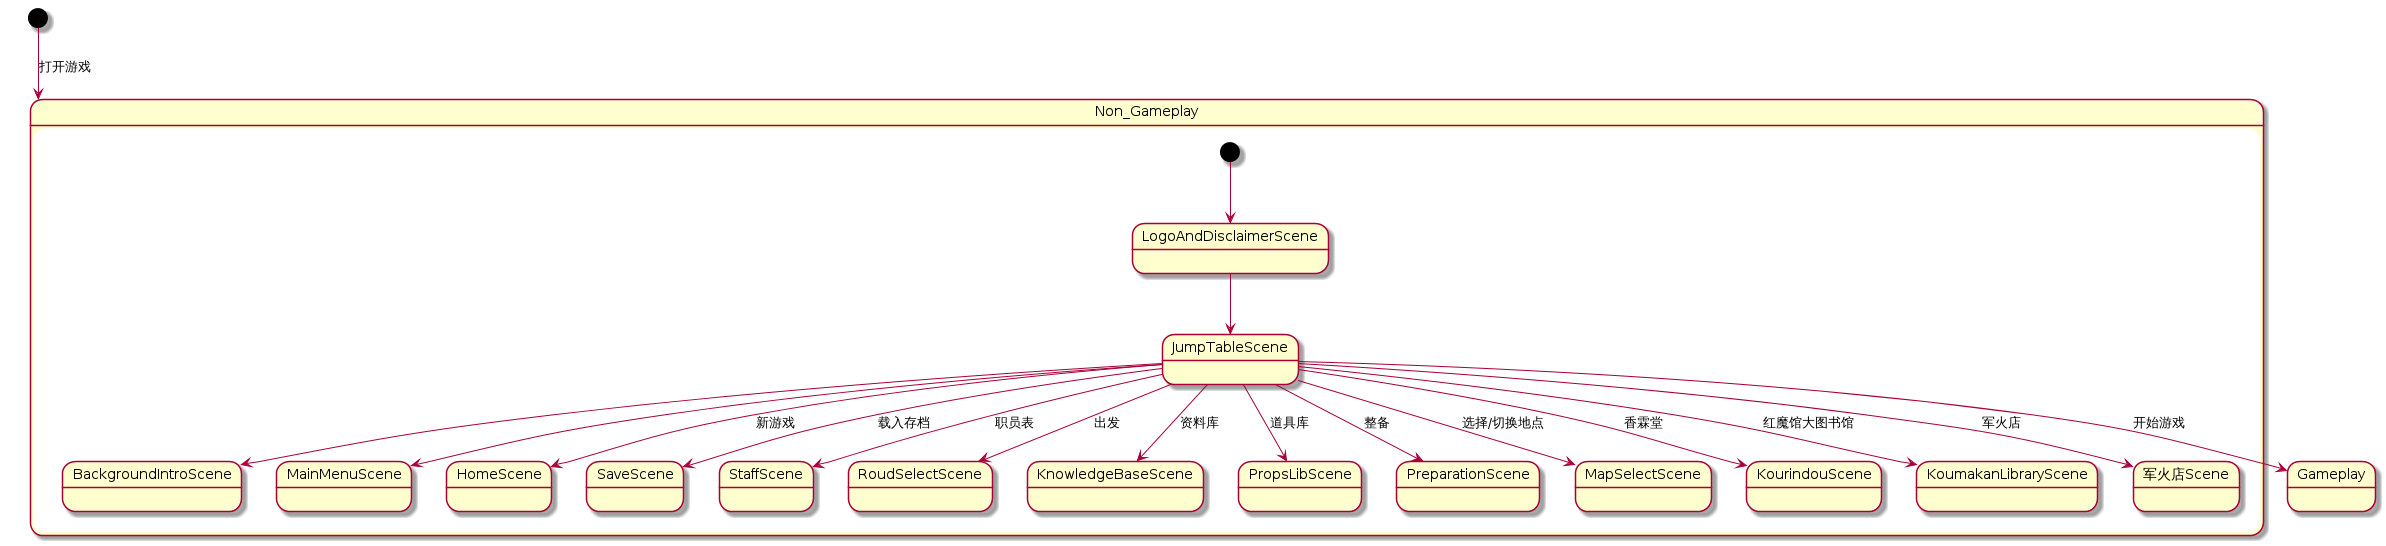
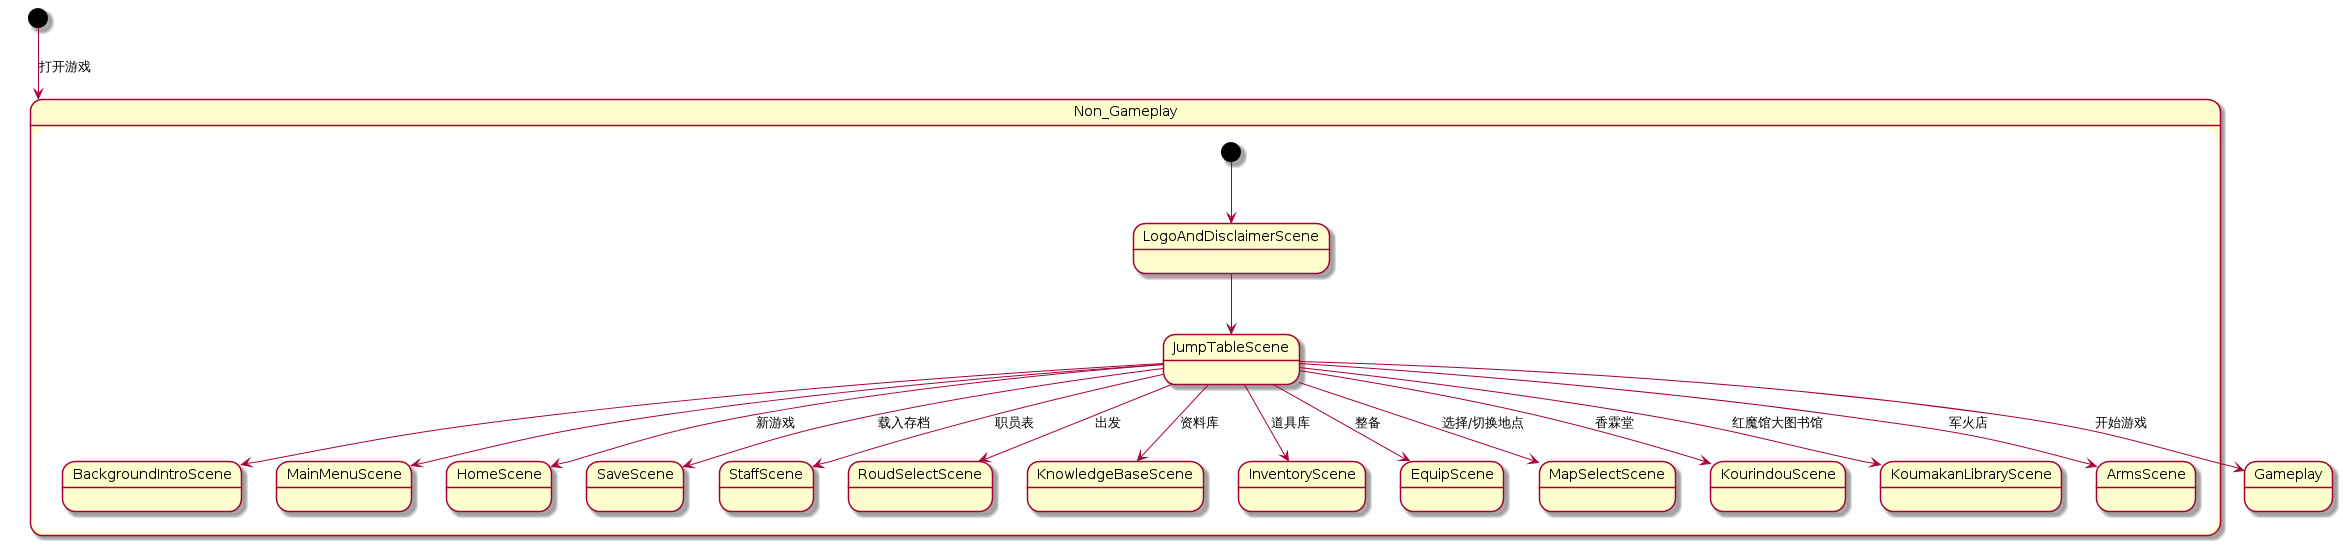
总体实现方案: 更改一些 Scene/Layer 的命名

diff --git a/2.游戏设计与实现/总体实现方案.md b/2.游戏设计与实现/总体实现方案.md
@@ -157,7 +157,7 @@ GameData 在同一时间对应且仅对应一个存档。外部逻辑访问 Game
 
 为实现这一点：
 
-1. 在创建 `SaveScene` 时，即指定是执行『读取』还是『保存』动作： `SaveScene::create(boolean isLoadAction)`。
+1. 在创建 `SaveScene` 时，即指定是执行『读取』还是『保存』动作： `SaveScene::create(boolean isSaveAction)`。
 
 #### 5.1.2. MainMenuScene 和 HomeScene 的 SettingsLayer
 
@@ -242,7 +242,7 @@ GameplayScene 的 UI 树组织如下：
 1. 事件判定（用户按下了前进键，打死了一个敌人，捡了一个物品 ...）
 1. 事件处理（用户按下前进键要发生什么，打死一个敌人后要发生什么，捡了一个物品后要发生什么 ...）
 
-其中由于 3 事件判定需要 1 场景层所承载元素的各种信息，为了方便，我们将它们写到一起。用户操纵和释放技能的做成 `CtrlPanelLayer`、`CardAndPropLayer`，地图和敌人行动的做成 `BattleLandLayer`。
+其中由于 3 事件判定需要 1 场景层所承载元素的各种信息，为了方便，我们将它们写到一起。用户操纵和释放技能的做成 `CtrlPanelLayer`、`SpellCardAndItemLayer`，地图和敌人行动的做成 `BattleLandLayer`。
 
 为了将各种事件的处理逻辑从代码层面上分离，方便不同的人同时工作，每类事件的 Listener 我们都做成一个从 `EventListenerCustom` 派生的类 `Listener*`。它提供 `static EventListenerCustom* createAndRegister(const std::string& eventName, Node* bindNode = nullptr) ` 方法来创建并注册自己。
 
